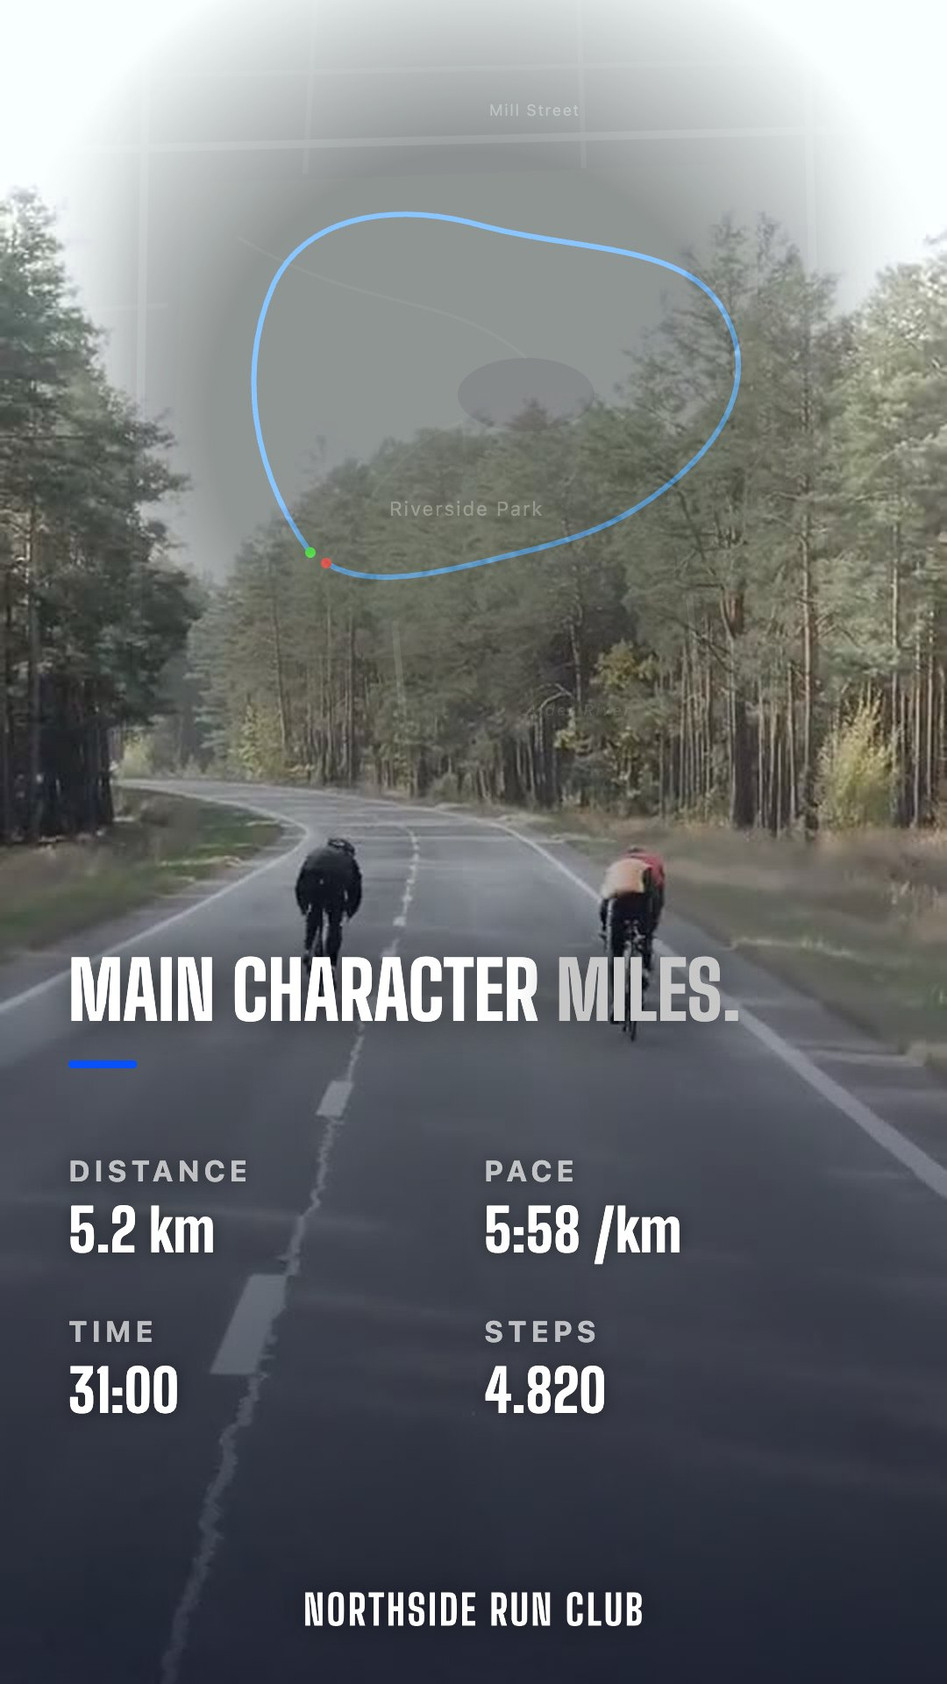
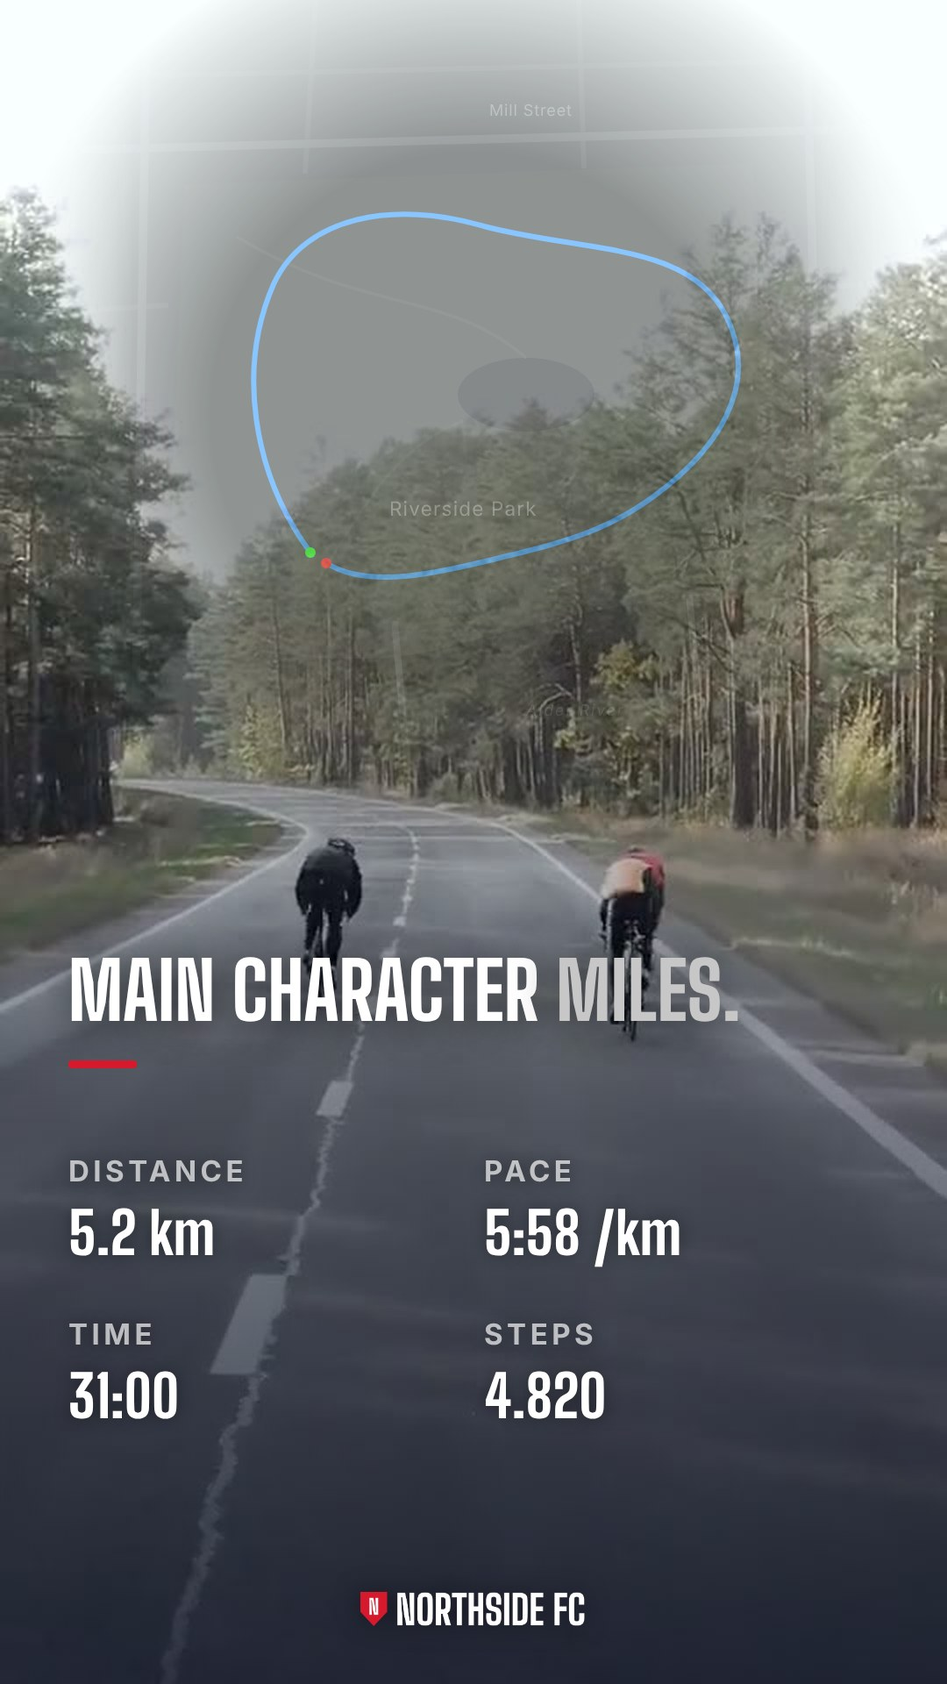
feat(deck): 09 "Your crest on every post", strip of Northside FC share cards
The page is the heading row ("Made by fans") and the title; the lede is
gone. The strip now shows six share cards in the sample club's brand:
- a Northside FC wordmark with a red crest (templates/assets) replaces
  the SportIn and Northside Run Club wordmarks in templates t10 to t12,
  with their accents in club red;
- the magazine cover's blue backdrop is recoloured to club red
  (card-photo-back-club.jpg; the original stays);
- each template is rendered with two photos (1080x1920, as before).
The app screenshots and Run Cam videos, which carry SportIn or Run Club
marks, are left out of the strip; their files stay in media/ugc/.

Claude-Session: https://claude.ai/code/session_0176LBLgCEuv1DSL9VebKTjy

diff --git a/proto/deck-jelly.html b/proto/deck-jelly.html
@@ -265,12 +265,11 @@
     <div class="wrap">
       <div class="ugc__head">
         <div>
-          <p class="ugc__kicker feat__idx"><b>09</b><span>Content</span><em>Made by members</em></p>
-          <h2 class="ugc__title" id="ugcTitle">Content money <em>can&rsquo;t buy</em>.</h2>
-          <p class="ugc__lede">Ready-made templates. Your logo on every post.</p>
+          <p class="ugc__kicker feat__idx"><b>09</b><span>Content</span><em>Made by fans</em></p>
+          <h2 class="ugc__title" id="ugcTitle">Your crest on <em>every post</em>.</h2>
         </div>
       </div>
-      <div class="ugc__stage"><div class="ugc__strip" role="region" aria-label="Share templates from the SportIn app"><div class="ugc__track"><figure class="ugc__card"><video class="ugc__media" src="/proto/media/ugc/runcam-magazine.mp4" poster="/proto/media/ugc/runcam-magazine.jpg" muted loop playsinline preload="none" aria-label="Magazine cover video, a video template from the SportIn app"></video><figcaption>Magazine cover video<span class="is-video">Video</span></figcaption></figure><figure class="ugc__card"><img class="ugc__media" src="/proto/media/ugc/weekly.jpg" alt="Weekly progress, an image template from the SportIn app" loading="lazy" decoding="async" /><figcaption>Weekly progress</figcaption></figure><figure class="ugc__card"><video class="ugc__media" src="/proto/media/ugc/animated-run.mp4" poster="/proto/media/ugc/animated-run.jpg" muted loop playsinline preload="none" aria-label="Animated route, a video template from the SportIn app"></video><figcaption>Animated route<span class="is-video">Video</span></figcaption></figure><figure class="ugc__card"><img class="ugc__media" src="/proto/media/ugc/card-t11.jpg" alt="Steps on your photo, an image template from the SportIn app" loading="lazy" decoding="async" /><figcaption>Steps on your photo</figcaption></figure><figure class="ugc__card"><img class="ugc__media" src="/proto/media/ugc/monthly.jpg" alt="Monthly target, an image template from the SportIn app" loading="lazy" decoding="async" /><figcaption>Monthly target</figcaption></figure><figure class="ugc__card"><video class="ugc__media" src="/proto/media/ugc/runcam-watermark.mp4" poster="/proto/media/ugc/runcam-watermark.jpg" muted loop playsinline preload="none" aria-label="Route video, a video template from the SportIn app"></video><figcaption>Route video<span class="is-video">Video</span></figcaption></figure><figure class="ugc__card"><img class="ugc__media" src="/proto/media/ugc/run.jpg" alt="Run summary, an image template from the SportIn app" loading="lazy" decoding="async" /><figcaption>Run summary</figcaption></figure><figure class="ugc__card"><video class="ugc__media" src="/proto/media/ugc/runcam-glass.mp4" poster="/proto/media/ugc/runcam-glass.jpg" muted loop playsinline preload="none" aria-label="Live run video, a video template from the SportIn app"></video><figcaption>Live run video<span class="is-video">Video</span></figcaption></figure><figure class="ugc__card"><img class="ugc__media" src="/proto/media/ugc/card-t10.jpg" alt="Route on your photo, an image template from the SportIn app" loading="lazy" decoding="async" /><figcaption>Route on your photo</figcaption></figure><figure class="ugc__card"><img class="ugc__media" src="/proto/media/ugc/card-t12.jpg" alt="Magazine cover, an image template from the SportIn app" loading="lazy" decoding="async" /><figcaption>Magazine cover</figcaption></figure><figure class="ugc__card" aria-hidden="true"><video class="ugc__media" src="/proto/media/ugc/runcam-magazine.mp4" poster="/proto/media/ugc/runcam-magazine.jpg" muted loop playsinline preload="none"></video><figcaption>Magazine cover video<span class="is-video">Video</span></figcaption></figure><figure class="ugc__card" aria-hidden="true"><img class="ugc__media" src="/proto/media/ugc/weekly.jpg" alt="" loading="lazy" decoding="async" /><figcaption>Weekly progress</figcaption></figure><figure class="ugc__card" aria-hidden="true"><video class="ugc__media" src="/proto/media/ugc/animated-run.mp4" poster="/proto/media/ugc/animated-run.jpg" muted loop playsinline preload="none"></video><figcaption>Animated route<span class="is-video">Video</span></figcaption></figure><figure class="ugc__card" aria-hidden="true"><img class="ugc__media" src="/proto/media/ugc/card-t11.jpg" alt="" loading="lazy" decoding="async" /><figcaption>Steps on your photo</figcaption></figure><figure class="ugc__card" aria-hidden="true"><img class="ugc__media" src="/proto/media/ugc/monthly.jpg" alt="" loading="lazy" decoding="async" /><figcaption>Monthly target</figcaption></figure><figure class="ugc__card" aria-hidden="true"><video class="ugc__media" src="/proto/media/ugc/runcam-watermark.mp4" poster="/proto/media/ugc/runcam-watermark.jpg" muted loop playsinline preload="none"></video><figcaption>Route video<span class="is-video">Video</span></figcaption></figure><figure class="ugc__card" aria-hidden="true"><img class="ugc__media" src="/proto/media/ugc/run.jpg" alt="" loading="lazy" decoding="async" /><figcaption>Run summary</figcaption></figure><figure class="ugc__card" aria-hidden="true"><video class="ugc__media" src="/proto/media/ugc/runcam-glass.mp4" poster="/proto/media/ugc/runcam-glass.jpg" muted loop playsinline preload="none"></video><figcaption>Live run video<span class="is-video">Video</span></figcaption></figure><figure class="ugc__card" aria-hidden="true"><img class="ugc__media" src="/proto/media/ugc/card-t10.jpg" alt="" loading="lazy" decoding="async" /><figcaption>Route on your photo</figcaption></figure><figure class="ugc__card" aria-hidden="true"><img class="ugc__media" src="/proto/media/ugc/card-t12.jpg" alt="" loading="lazy" decoding="async" /><figcaption>Magazine cover</figcaption></figure></div></div><button class="ugc__pause" type="button" aria-pressed="false" aria-label="Pause the templates"><svg class="ugc__ico-pause" width="12" height="12" viewBox="0 0 12 12" aria-hidden="true"><rect x="2" y="1.5" width="2.6" height="9" rx="1" fill="currentColor"/><rect x="7.4" y="1.5" width="2.6" height="9" rx="1" fill="currentColor"/></svg><svg class="ugc__ico-play" width="12" height="12" viewBox="0 0 12 12" aria-hidden="true"><path d="M3 1.8l7 4.2-7 4.2z" fill="currentColor"/></svg></button></div>
+      <div class="ugc__stage"><div class="ugc__strip" role="region" aria-label="Northside FC share templates from the SportIn app"><div class="ugc__track"><figure class="ugc__card"><img class="ugc__media" src="/proto/media/ugc/card-t12.jpg?v=2" alt="Magazine cover, a Northside FC share card from the SportIn app" loading="lazy" decoding="async" /><figcaption>Magazine cover</figcaption></figure><figure class="ugc__card"><img class="ugc__media" src="/proto/media/ugc/card-t10.jpg?v=2" alt="Route on your photo, a Northside FC share card from the SportIn app" loading="lazy" decoding="async" /><figcaption>Route on your photo</figcaption></figure><figure class="ugc__card"><img class="ugc__media" src="/proto/media/ugc/card-t11.jpg?v=2" alt="Steps on your photo, a Northside FC share card from the SportIn app" loading="lazy" decoding="async" /><figcaption>Steps on your photo</figcaption></figure><figure class="ugc__card"><img class="ugc__media" src="/proto/media/ugc/club-t12-group.jpg?v=2" alt="Magazine cover, a Northside FC share card from the SportIn app" loading="lazy" decoding="async" /><figcaption>Magazine cover</figcaption></figure><figure class="ugc__card"><img class="ugc__media" src="/proto/media/ugc/club-t10-group.jpg?v=2" alt="Route on your photo, a Northside FC share card from the SportIn app" loading="lazy" decoding="async" /><figcaption>Route on your photo</figcaption></figure><figure class="ugc__card"><img class="ugc__media" src="/proto/media/ugc/club-t11-bike.jpg?v=2" alt="Steps on your photo, a Northside FC share card from the SportIn app" loading="lazy" decoding="async" /><figcaption>Steps on your photo</figcaption></figure><figure class="ugc__card" aria-hidden="true"><img class="ugc__media" src="/proto/media/ugc/card-t12.jpg?v=2" alt="" loading="lazy" decoding="async" /><figcaption>Magazine cover</figcaption></figure><figure class="ugc__card" aria-hidden="true"><img class="ugc__media" src="/proto/media/ugc/card-t10.jpg?v=2" alt="" loading="lazy" decoding="async" /><figcaption>Route on your photo</figcaption></figure><figure class="ugc__card" aria-hidden="true"><img class="ugc__media" src="/proto/media/ugc/card-t11.jpg?v=2" alt="" loading="lazy" decoding="async" /><figcaption>Steps on your photo</figcaption></figure><figure class="ugc__card" aria-hidden="true"><img class="ugc__media" src="/proto/media/ugc/club-t12-group.jpg?v=2" alt="" loading="lazy" decoding="async" /><figcaption>Magazine cover</figcaption></figure><figure class="ugc__card" aria-hidden="true"><img class="ugc__media" src="/proto/media/ugc/club-t10-group.jpg?v=2" alt="" loading="lazy" decoding="async" /><figcaption>Route on your photo</figcaption></figure><figure class="ugc__card" aria-hidden="true"><img class="ugc__media" src="/proto/media/ugc/club-t11-bike.jpg?v=2" alt="" loading="lazy" decoding="async" /><figcaption>Steps on your photo</figcaption></figure></div></div><button class="ugc__pause" type="button" aria-pressed="false" aria-label="Pause the templates"><svg class="ugc__ico-pause" width="12" height="12" viewBox="0 0 12 12" aria-hidden="true"><rect x="2" y="1.5" width="2.6" height="9" rx="1" fill="currentColor"/><rect x="7.4" y="1.5" width="2.6" height="9" rx="1" fill="currentColor"/></svg><svg class="ugc__ico-play" width="12" height="12" viewBox="0 0 12 12" aria-hidden="true"><path d="M3 1.8l7 4.2-7 4.2z" fill="currentColor"/></svg></button></div>
     </div>
   </section>
 

diff --git a/proto/deck.html b/proto/deck.html
@@ -265,12 +265,11 @@
     <div class="wrap">
       <div class="ugc__head">
         <div>
-          <p class="ugc__kicker feat__idx"><b>09</b><span>Content</span><em>Made by members</em></p>
-          <h2 class="ugc__title" id="ugcTitle">Content money <em>can&rsquo;t buy</em>.</h2>
-          <p class="ugc__lede">Ready-made templates. Your logo on every post.</p>
+          <p class="ugc__kicker feat__idx"><b>09</b><span>Content</span><em>Made by fans</em></p>
+          <h2 class="ugc__title" id="ugcTitle">Your crest on <em>every post</em>.</h2>
         </div>
       </div>
-      <div class="ugc__stage"><div class="ugc__strip" role="region" aria-label="Share templates from the SportIn app"><div class="ugc__track"><figure class="ugc__card"><video class="ugc__media" src="/proto/media/ugc/runcam-magazine.mp4" poster="/proto/media/ugc/runcam-magazine.jpg" muted loop playsinline preload="none" aria-label="Magazine cover video, a video template from the SportIn app"></video><figcaption>Magazine cover video<span class="is-video">Video</span></figcaption></figure><figure class="ugc__card"><img class="ugc__media" src="/proto/media/ugc/weekly.jpg" alt="Weekly progress, an image template from the SportIn app" loading="lazy" decoding="async" /><figcaption>Weekly progress</figcaption></figure><figure class="ugc__card"><video class="ugc__media" src="/proto/media/ugc/animated-run.mp4" poster="/proto/media/ugc/animated-run.jpg" muted loop playsinline preload="none" aria-label="Animated route, a video template from the SportIn app"></video><figcaption>Animated route<span class="is-video">Video</span></figcaption></figure><figure class="ugc__card"><img class="ugc__media" src="/proto/media/ugc/card-t11.jpg" alt="Steps on your photo, an image template from the SportIn app" loading="lazy" decoding="async" /><figcaption>Steps on your photo</figcaption></figure><figure class="ugc__card"><img class="ugc__media" src="/proto/media/ugc/monthly.jpg" alt="Monthly target, an image template from the SportIn app" loading="lazy" decoding="async" /><figcaption>Monthly target</figcaption></figure><figure class="ugc__card"><video class="ugc__media" src="/proto/media/ugc/runcam-watermark.mp4" poster="/proto/media/ugc/runcam-watermark.jpg" muted loop playsinline preload="none" aria-label="Route video, a video template from the SportIn app"></video><figcaption>Route video<span class="is-video">Video</span></figcaption></figure><figure class="ugc__card"><img class="ugc__media" src="/proto/media/ugc/run.jpg" alt="Run summary, an image template from the SportIn app" loading="lazy" decoding="async" /><figcaption>Run summary</figcaption></figure><figure class="ugc__card"><video class="ugc__media" src="/proto/media/ugc/runcam-glass.mp4" poster="/proto/media/ugc/runcam-glass.jpg" muted loop playsinline preload="none" aria-label="Live run video, a video template from the SportIn app"></video><figcaption>Live run video<span class="is-video">Video</span></figcaption></figure><figure class="ugc__card"><img class="ugc__media" src="/proto/media/ugc/card-t10.jpg" alt="Route on your photo, an image template from the SportIn app" loading="lazy" decoding="async" /><figcaption>Route on your photo</figcaption></figure><figure class="ugc__card"><img class="ugc__media" src="/proto/media/ugc/card-t12.jpg" alt="Magazine cover, an image template from the SportIn app" loading="lazy" decoding="async" /><figcaption>Magazine cover</figcaption></figure><figure class="ugc__card" aria-hidden="true"><video class="ugc__media" src="/proto/media/ugc/runcam-magazine.mp4" poster="/proto/media/ugc/runcam-magazine.jpg" muted loop playsinline preload="none"></video><figcaption>Magazine cover video<span class="is-video">Video</span></figcaption></figure><figure class="ugc__card" aria-hidden="true"><img class="ugc__media" src="/proto/media/ugc/weekly.jpg" alt="" loading="lazy" decoding="async" /><figcaption>Weekly progress</figcaption></figure><figure class="ugc__card" aria-hidden="true"><video class="ugc__media" src="/proto/media/ugc/animated-run.mp4" poster="/proto/media/ugc/animated-run.jpg" muted loop playsinline preload="none"></video><figcaption>Animated route<span class="is-video">Video</span></figcaption></figure><figure class="ugc__card" aria-hidden="true"><img class="ugc__media" src="/proto/media/ugc/card-t11.jpg" alt="" loading="lazy" decoding="async" /><figcaption>Steps on your photo</figcaption></figure><figure class="ugc__card" aria-hidden="true"><img class="ugc__media" src="/proto/media/ugc/monthly.jpg" alt="" loading="lazy" decoding="async" /><figcaption>Monthly target</figcaption></figure><figure class="ugc__card" aria-hidden="true"><video class="ugc__media" src="/proto/media/ugc/runcam-watermark.mp4" poster="/proto/media/ugc/runcam-watermark.jpg" muted loop playsinline preload="none"></video><figcaption>Route video<span class="is-video">Video</span></figcaption></figure><figure class="ugc__card" aria-hidden="true"><img class="ugc__media" src="/proto/media/ugc/run.jpg" alt="" loading="lazy" decoding="async" /><figcaption>Run summary</figcaption></figure><figure class="ugc__card" aria-hidden="true"><video class="ugc__media" src="/proto/media/ugc/runcam-glass.mp4" poster="/proto/media/ugc/runcam-glass.jpg" muted loop playsinline preload="none"></video><figcaption>Live run video<span class="is-video">Video</span></figcaption></figure><figure class="ugc__card" aria-hidden="true"><img class="ugc__media" src="/proto/media/ugc/card-t10.jpg" alt="" loading="lazy" decoding="async" /><figcaption>Route on your photo</figcaption></figure><figure class="ugc__card" aria-hidden="true"><img class="ugc__media" src="/proto/media/ugc/card-t12.jpg" alt="" loading="lazy" decoding="async" /><figcaption>Magazine cover</figcaption></figure></div></div><button class="ugc__pause" type="button" aria-pressed="false" aria-label="Pause the templates"><svg class="ugc__ico-pause" width="12" height="12" viewBox="0 0 12 12" aria-hidden="true"><rect x="2" y="1.5" width="2.6" height="9" rx="1" fill="currentColor"/><rect x="7.4" y="1.5" width="2.6" height="9" rx="1" fill="currentColor"/></svg><svg class="ugc__ico-play" width="12" height="12" viewBox="0 0 12 12" aria-hidden="true"><path d="M3 1.8l7 4.2-7 4.2z" fill="currentColor"/></svg></button></div>
+      <div class="ugc__stage"><div class="ugc__strip" role="region" aria-label="Northside FC share templates from the SportIn app"><div class="ugc__track"><figure class="ugc__card"><img class="ugc__media" src="/proto/media/ugc/card-t12.jpg?v=2" alt="Magazine cover, a Northside FC share card from the SportIn app" loading="lazy" decoding="async" /><figcaption>Magazine cover</figcaption></figure><figure class="ugc__card"><img class="ugc__media" src="/proto/media/ugc/card-t10.jpg?v=2" alt="Route on your photo, a Northside FC share card from the SportIn app" loading="lazy" decoding="async" /><figcaption>Route on your photo</figcaption></figure><figure class="ugc__card"><img class="ugc__media" src="/proto/media/ugc/card-t11.jpg?v=2" alt="Steps on your photo, a Northside FC share card from the SportIn app" loading="lazy" decoding="async" /><figcaption>Steps on your photo</figcaption></figure><figure class="ugc__card"><img class="ugc__media" src="/proto/media/ugc/club-t12-group.jpg?v=2" alt="Magazine cover, a Northside FC share card from the SportIn app" loading="lazy" decoding="async" /><figcaption>Magazine cover</figcaption></figure><figure class="ugc__card"><img class="ugc__media" src="/proto/media/ugc/club-t10-group.jpg?v=2" alt="Route on your photo, a Northside FC share card from the SportIn app" loading="lazy" decoding="async" /><figcaption>Route on your photo</figcaption></figure><figure class="ugc__card"><img class="ugc__media" src="/proto/media/ugc/club-t11-bike.jpg?v=2" alt="Steps on your photo, a Northside FC share card from the SportIn app" loading="lazy" decoding="async" /><figcaption>Steps on your photo</figcaption></figure><figure class="ugc__card" aria-hidden="true"><img class="ugc__media" src="/proto/media/ugc/card-t12.jpg?v=2" alt="" loading="lazy" decoding="async" /><figcaption>Magazine cover</figcaption></figure><figure class="ugc__card" aria-hidden="true"><img class="ugc__media" src="/proto/media/ugc/card-t10.jpg?v=2" alt="" loading="lazy" decoding="async" /><figcaption>Route on your photo</figcaption></figure><figure class="ugc__card" aria-hidden="true"><img class="ugc__media" src="/proto/media/ugc/card-t11.jpg?v=2" alt="" loading="lazy" decoding="async" /><figcaption>Steps on your photo</figcaption></figure><figure class="ugc__card" aria-hidden="true"><img class="ugc__media" src="/proto/media/ugc/club-t12-group.jpg?v=2" alt="" loading="lazy" decoding="async" /><figcaption>Magazine cover</figcaption></figure><figure class="ugc__card" aria-hidden="true"><img class="ugc__media" src="/proto/media/ugc/club-t10-group.jpg?v=2" alt="" loading="lazy" decoding="async" /><figcaption>Route on your photo</figcaption></figure><figure class="ugc__card" aria-hidden="true"><img class="ugc__media" src="/proto/media/ugc/club-t11-bike.jpg?v=2" alt="" loading="lazy" decoding="async" /><figcaption>Steps on your photo</figcaption></figure></div></div><button class="ugc__pause" type="button" aria-pressed="false" aria-label="Pause the templates"><svg class="ugc__ico-pause" width="12" height="12" viewBox="0 0 12 12" aria-hidden="true"><rect x="2" y="1.5" width="2.6" height="9" rx="1" fill="currentColor"/><rect x="7.4" y="1.5" width="2.6" height="9" rx="1" fill="currentColor"/></svg><svg class="ugc__ico-play" width="12" height="12" viewBox="0 0 12 12" aria-hidden="true"><path d="M3 1.8l7 4.2-7 4.2z" fill="currentColor"/></svg></button></div>
     </div>
   </section>
 

diff --git a/proto/media/ugc/templates/card-t12.html b/proto/media/ugc/templates/card-t12.html
@@ -29,8 +29,8 @@
   }
   html, body { margin: 0; padding: 0; overflow: hidden; background: #080d1e; }
   :root {
-    --brand-blue: rgb(7, 81, 251);
-    --rule-blue: rgb(126, 163, 255);   /* #7EA3FF */
+    --brand-blue: rgb(215, 25, 45); /* demo club colour (Northside FC) */
+    --rule-blue: rgb(255, 140, 150);   /* light club red (was #7EA3FF) */
     --icon-grey: rgb(152, 160, 181);   /* #98A0B5 */
     --dark-bg: rgb(8, 13, 30);
     --display: "BigShouldersDisplay-ExtraBold", -apple-system, "SF Pro Display", system-ui, sans-serif;
@@ -92,7 +92,7 @@
     font-family: var(--text); font-size: 11px; font-weight: 700; letter-spacing: 1.5px;
     color: rgba(255, 255, 255, 0.68); line-height: normal;
   }
-  .stat .rule { width: 98.667px; height: 0.75px; background: rgba(126, 163, 255, 0.4); }   /* 296/3 */
+  .stat .rule { width: 98.667px; height: 0.75px; background: rgba(255, 140, 150, 0.4); }   /* 296/3, light club red */
 
   .quote { text-shadow: 0 0 9.333px rgba(0, 0, 0, 0.5); }
   .quote div {
@@ -111,12 +111,12 @@
 </head>
 <body>
 <div id="card">
-  <img class="layer photo" src="assets/card-photo-back.jpg" alt="">
+  <img class="layer photo" src="assets/card-photo-back-club.jpg" alt="">
   <div class="layer scrim"></div>
 
   <div class="layer content">
     <div class="sp-top"></div>
-    <div class="row"><img class="wordmark" src="assets/card-sportin-wordmark.png" alt="SportIn"></div>
+    <div class="row"><img class="wordmark" src="assets/demo-northside-fc-wordmark.png" alt="Northside FC, a made-up demo club"></div>
     <div class="sp-wm"></div>
     <div class="row masthead">
       <span class="mag">THE MOVEMENT MAGAZINE</span>
@@ -184,7 +184,7 @@
     <div class="sp-footer"></div>
     <div class="row footer">
       <svg viewBox="0 0 7 11" aria-hidden="true">
-        <path d="M5.667 0L1.333 11" stroke="rgb(7,81,251)" stroke-width="1.333" stroke-linecap="round" fill="none"/>
+        <path d="M5.667 0L1.333 11" stroke="rgb(215,25,45)" stroke-width="1.333" stroke-linecap="round" fill="none"/>
       </svg>
       <span>Rise to the challenge.</span>
     </div>

diff --git a/proto/media/ugc/templates/card-t10.html b/proto/media/ugc/templates/card-t10.html
@@ -26,7 +26,7 @@
   }
   html, body { margin: 0; padding: 0; overflow: hidden; background: #080d1e; }
   :root {
-    --blue: rgb(7, 81, 251);
+    --blue: rgb(215, 25, 45); /* demo club colour (Northside FC) */
     --title-accent: rgb(199, 199, 199);   /* Color(white: 0.78) */
     --dark-bg: rgb(8, 13, 30);
     --display: "BigShouldersDisplay-ExtraBold", -apple-system, "SF Pro Display", system-ui, sans-serif;
@@ -166,7 +166,7 @@
       <div class="stat"><span class="label">STEPS</span><span class="value">4.820</span></div>
     </div>
     <div class="sp-flex"></div>
-    <div class="wordmark-row"><img class="wordmark" src="assets/demo-northside-wordmark.png" alt="Northside Run Club, a made-up demo brand"></div>
+    <div class="wordmark-row"><img class="wordmark" src="assets/demo-northside-fc-wordmark.png" alt="Northside FC, a made-up demo club"></div>
     <div class="sp-bottom"></div>
   </div>
 </div>

diff --git a/proto/media/ugc/templates/card-t11.html b/proto/media/ugc/templates/card-t11.html
@@ -26,7 +26,7 @@
   }
   html, body { margin: 0; padding: 0; overflow: hidden; background: #080d1e; }
   :root {
-    --blue: rgb(7, 81, 251);
+    --blue: rgb(215, 25, 45); /* demo club colour (Northside FC) */
     --title-accent: rgb(199, 199, 199);   /* Color(white: 0.78) */
     --dark-bg: rgb(8, 13, 30);
     --display: "BigShouldersDisplay-ExtraBold", -apple-system, "SF Pro Display", system-ui, sans-serif;
@@ -99,7 +99,7 @@
       <div class="stat"><span class="label">RANK</span><span class="value">#1</span></div>
     </div>
     <div class="sp-flex"></div>
-    <div class="wordmark-row"><img class="wordmark" src="assets/demo-northside-wordmark.png" alt="Northside Run Club, a made-up demo brand"></div>
+    <div class="wordmark-row"><img class="wordmark" src="assets/demo-northside-fc-wordmark.png" alt="Northside FC, a made-up demo club"></div>
     <div class="sp-bottom"></div>
   </div>
 </div>
